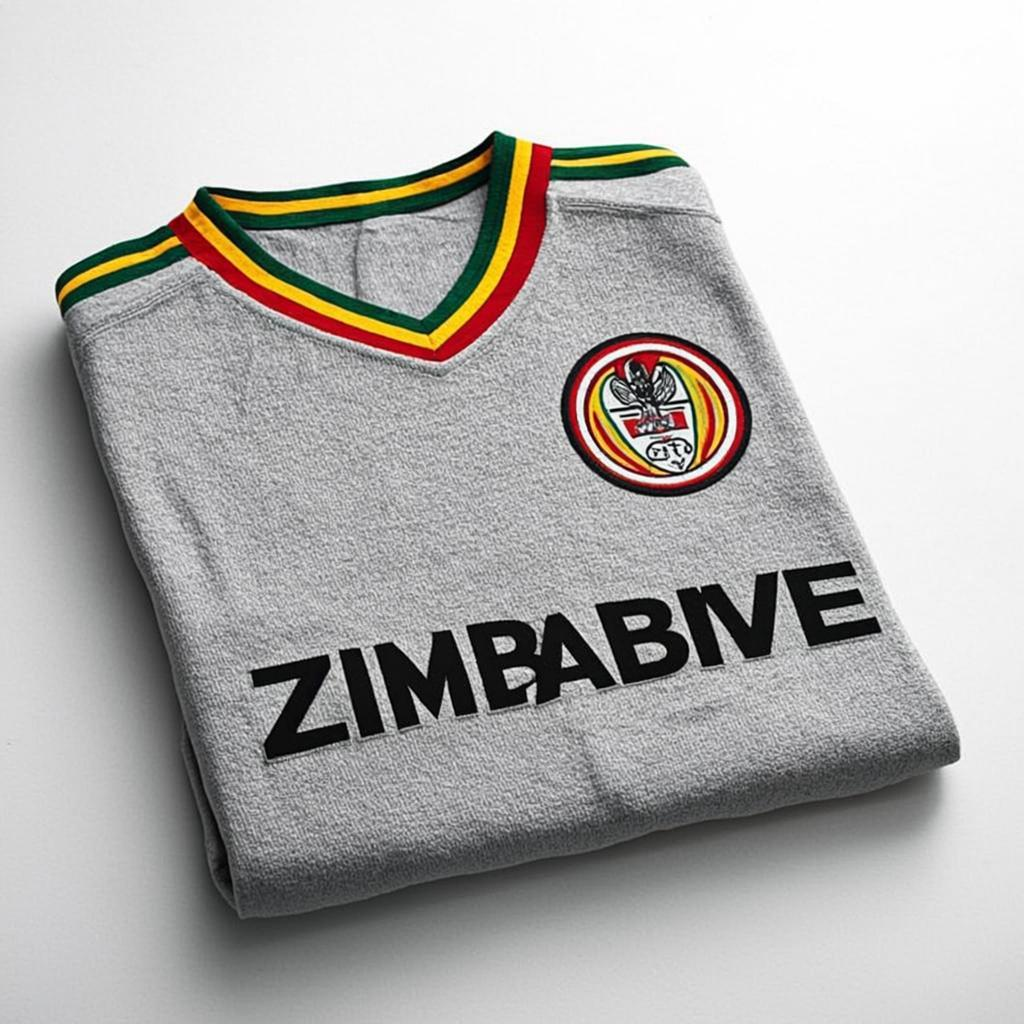
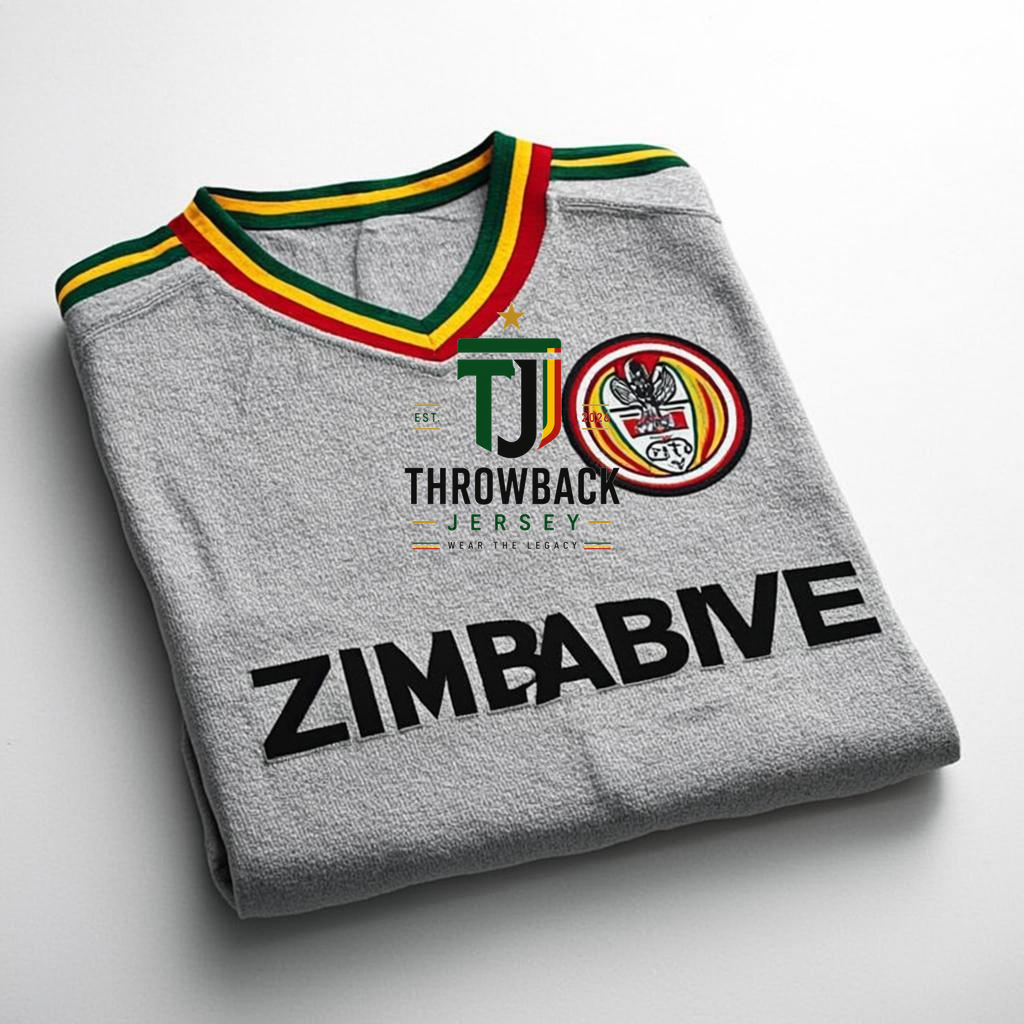
87c9e53d-9f62-4824-85be-16b8159bd8c8

Changed region(s): [[0.375, 0.2812, 0.625, 0.5312]]

diff --git a/src/components/store/header.tsx b/src/components/store/header.tsx
@@ -34,15 +34,19 @@ export default function Header({
         <div className="max-w-[1440px] mx-auto px-6 lg:px-10 flex items-center justify-between gap-6">
           {/* Logo + Tagline */}
           <a href="#top" className="flex items-center gap-3 group">
-            <span
-              className="font-script text-2xl md:text-[28px] leading-none text-[#D4AF37] drop-shadow-[0_2px_8px_rgba(212,175,55,0.4)] transition-transform group-hover:scale-[1.03] origin-left"
-              style={{ fontFamily: "var(--font-pacifico), Pacifico, cursive" }}
-            >
-              Throwback Jersey
-            </span>
-            <span className="hidden md:block h-4 w-px bg-[#D4AF37]/60" />
-            <span className="hidden md:block text-[10px] tracking-[0.3em] text-white/80 font-ui uppercase">
-              Wear the Legacy
+            <img
+              src="/images/logo-transparent.png"
+              alt="Throwback Jersey logo"
+              className="h-12 md:h-14 w-auto object-contain drop-shadow-[0_2px_8px_rgba(0,0,0,0.4)] transition-transform group-hover:scale-[1.03] origin-left"
+            />
+            <span className="hidden md:block h-8 w-px bg-[#D4AF37]/60" />
+            <span className="hidden md:flex flex-col leading-tight">
+              <span className="text-[10px] tracking-[0.3em] text-white font-ui uppercase">
+                Wear the Legacy
+              </span>
+              <span className="text-[9px] tracking-[0.25em] text-[#D4AF37]/80 font-ui uppercase mt-0.5">
+                Est. 2026
+              </span>
             </span>
           </a>
 
@@ -106,12 +110,11 @@ export default function Header({
           />
           <div className="absolute top-0 right-0 bottom-0 w-[78%] max-w-sm bg-[#0D0D0D] border-l border-[#D4AF37]/30 p-7 flex flex-col">
             <div className="flex items-center justify-between mb-10">
-              <span
-                className="font-script text-[#D4AF37] text-2xl"
-                style={{ fontFamily: "var(--font-pacifico), Pacifico, cursive" }}
-              >
-                Throwback Jersey
-              </span>
+              <img
+                src="/images/logo-transparent.png"
+                alt="Throwback Jersey logo"
+                className="h-16 w-auto object-contain"
+              />
               <button
                 aria-label="Close menu"
                 onClick={() => setMobileOpen(false)}

diff --git a/src/app/layout.tsx b/src/app/layout.tsx
@@ -32,18 +32,20 @@ const openSans = Open_Sans({
 export const metadata: Metadata = {
   title: "Throwback Jersey — Wear The Legacy",
   description:
-    "Throwback Jersey brings Zimbabwe's unforgettable football moments back to life — so you can wear the legacy. Heritage jerseys rooted in passion, unity and pride.",
+    "Throwback Jersey brings Zimbabwe's unforgettable sporting moments back to life — so you can wear the legacy. Heritage jerseys rooted in passion, unity and pride.",
   keywords: [
     "Throwback Jersey",
     "Zimbabwe",
-    "football",
+    "sport",
     "retro jersey",
     "heritage",
     "Wear the Legacy",
   ],
   authors: [{ name: "Throwback Jersey" }],
   icons: {
-    icon: "/logo.svg",
+    icon: "/images/logo-transparent.png",
+    shortcut: "/images/logo-transparent.png",
+    apple: "/images/logo-transparent.png",
   },
   openGraph: {
     title: "Throwback Jersey — Wear The Legacy",
@@ -51,6 +53,7 @@ export const metadata: Metadata = {
       "More than a jersey. It's our story. Zimbabwe's sporting heritage, reborn.",
     siteName: "Throwback Jersey",
     type: "website",
+    images: ["/images/logo-transparent.png"],
   },
 };
 

diff --git a/src/components/store/footer.tsx b/src/components/store/footer.tsx
@@ -37,14 +37,13 @@ export default function Footer() {
         <div className="grid grid-cols-2 md:grid-cols-4 lg:grid-cols-6 gap-10">
           {/* Brand column */}
           <div className="col-span-2 lg:col-span-2">
-            <span
-              className="font-script text-[#D4AF37] text-3xl"
-              style={{ fontFamily: "var(--font-pacifico), Pacifico, cursive" }}
-            >
-              Throwback Jersey
-            </span>
-            <p className="mt-5 text-white/55 text-sm leading-[1.7] font-body max-w-xs">
-              Heritage jerseys stitched from Zimbabwe&apos;s proudest football
+            <img
+              src="/images/logo-transparent.png"
+              alt="Throwback Jersey logo"
+              className="h-20 w-auto object-contain mb-5"
+            />
+            <p className="mt-1 text-white/55 text-sm leading-[1.7] font-body max-w-xs">
+              Heritage jerseys stitched from Zimbabwe&apos;s proudest sporting
               moments. Wear the legacy — pass it on.
             </p>
 

diff --git a/src/components/store/hero.tsx b/src/components/store/hero.tsx
@@ -48,6 +48,15 @@ export default function Hero() {
       {/* Main content */}
       <div className="relative z-10 min-h-[100svh] flex items-center px-6 lg:px-10 max-w-[1440px] mx-auto pt-28 pb-16">
         <div className="max-w-[640px] animate-fade-in-up">
+          {/* Brand logo badge */}
+          <div className="mb-6">
+            <img
+              src="/images/logo-transparent.png"
+              alt="Throwback Jersey logo"
+              className="h-16 md:h-20 w-auto object-contain drop-shadow-[0_4px_16px_rgba(0,0,0,0.6)]"
+            />
+          </div>
+
           <div className="flex items-center gap-3 mb-5">
             <span className="h-px w-8 bg-[#D4AF37]" />
             <span className="text-[11px] tracking-[0.3em] text-white/85 font-ui uppercase">

diff --git a/src/components/store/cart-drawer.tsx b/src/components/store/cart-drawer.tsx
@@ -73,9 +73,10 @@ export default function CartDrawer({
           <div className="flex-1 overflow-y-auto no-scrollbar">
             {items.length === 0 ? (
               <div className="h-full flex flex-col items-center justify-center text-center p-8 gap-4">
-                <Icons.ShoppingBag
-                  className="w-12 h-12 text-white/15"
-                  strokeWidth={1}
+                <img
+                  src="/images/logo-transparent.png"
+                  alt="Throwback Jersey logo"
+                  className="h-20 w-auto object-contain opacity-40"
                 />
                 <p className="text-white/60 text-sm font-body max-w-[220px]">
                   Your bag is empty. Time to find your story.

diff --git a/scripts/apply_logo.py b/scripts/apply_logo.py
@@ -1,0 +1,164 @@
+#!/usr/bin/env python3
+"""
+Apply the Throwback Jersey logo to:
+1. Create a transparent version of the logo (remove white background)
+2. Overlay the transparent logo on each product jersey image (on chest area)
+3. Overlay the logo on the hero image and banner strip image
+"""
+import os
+from PIL import Image, ImageFilter, ImageEnhance
+
+SRC_LOGO = "/home/z/my-project/public/images/logo.jpg"
+IMG_DIR = "/home/z/my-project/public/images"
+TRANSPARENT_LOGO = "/home/z/my-project/public/images/logo-transparent.png"
+WHITE_LOGO_PNG = "/home/z/my-project/public/images/logo-white.png"  # white version for dark backgrounds
+
+# Jersey product images
+JERSEY_IMAGES = [
+    "product-jersey-grey.png",
+    "product-jersey-green.png",
+    "product-jersey-black.png",
+    "product-jersey-yellow.png",
+    "product-jersey-red.png",
+    "product-jersey-white.png",
+    "product-jersey-navy.png",
+    "product-jersey-maroon.png",
+    "product-jersey-folded.png",
+    "banner-jersey.png",
+]
+
+# Hero + banner images that should also get the logo overlay
+HERO_BANNER_IMAGES = ["hero-fan.png"]
+
+
+def make_transparent_logo(src_path: str, out_path: str) -> Image.Image:
+    """Convert white background to transparent."""
+    img = Image.open(src_path).convert("RGBA")
+    datas = img.getdata()
+    new_data = []
+    for item in datas:
+        r, g, b, a = item
+        # treat near-white pixels as transparent (with soft threshold)
+        if r > 235 and g > 235 and b > 235:
+            # full transparency for pure white
+            new_data.append((255, 255, 255, 0))
+        elif r > 215 and g > 215 and b > 215:
+            # partial transparency for off-white edges
+            alpha = int(255 * (1 - (min(r, g, b) - 215) / (235 - 215 + 1)))
+            new_data.append((r, g, b, max(0, alpha)))
+        else:
+            new_data.append((r, g, b, 255))
+    img.putdata(new_data)
+    # smooth edges slightly
+    img = img.filter(ImageFilter.SMOOTH_MORE)
+    img.save(out_path, "PNG")
+    print(f"Transparent logo saved -> {out_path} ({img.size})")
+    return img
+
+
+def make_white_version(src_path: str, out_path: str) -> Image.Image:
+    """Create an all-white version of the logo for dark backgrounds (like footer/header)."""
+    img = Image.open(src_path).convert("RGBA")
+    datas = img.getdata()
+    new_data = []
+    for item in datas:
+        r, g, b, a = item
+        # treat white background as transparent
+        if r > 235 and g > 235 and b > 235:
+            new_data.append((255, 255, 255, 0))
+        else:
+            # keep alpha, but make everything white
+            # preserve detail by darkening alpha for darker original pixels
+            luminance = 0.299 * r + 0.587 * g + 0.114 * b
+            new_alpha = int(255 * (1 - luminance / 255))
+            new_alpha = max(60, min(255, new_alpha + 100))
+            new_data.append((255, 255, 255, new_alpha))
+    img.putdata(new_data)
+    img.save(out_path, "PNG")
+    print(f"White version saved -> {out_path} ({img.size})")
+    return img
+
+
+def overlay_logo_on_jersey(
+    base_path: str, logo: Image.Image, out_path: str, scale: float = 0.28, y_offset: float = 0.36
+) -> None:
+    """Overlay the logo on the chest area of a jersey image.
+
+    scale: width of logo as a fraction of the base image width
+    y_offset: vertical position (0 = top, 0.5 = middle, 1 = bottom) for the logo center
+    """
+    base = Image.open(base_path).convert("RGBA")
+    w, h = base.size
+
+    # Resize logo
+    logo_w = int(w * scale)
+    logo_ratio = logo.height / logo.width
+    logo_h = int(logo_w * logo_ratio)
+    resized_logo = logo.resize((logo_w, logo_h), Image.LANCZOS)
+
+    # Calculate position to center logo on chest
+    pos_x = (w - logo_w) // 2
+    pos_y = int(h * y_offset) - (logo_h // 2)
+
+    # Compose
+    base.alpha_composite(resized_logo, (pos_x, pos_y))
+    # Convert back to RGB to keep PNG file size reasonable and preserve original format
+    final = base.convert("RGB")
+    final.save(out_path, "PNG", optimize=True)
+    print(f"Logo applied -> {out_path}")
+
+
+def overlay_logo_on_hero(
+    base_path: str, logo: Image.Image, out_path: str, scale: float = 0.14
+) -> None:
+    """Overlay the logo on the hero image (small, top-left or centered)."""
+    base = Image.open(base_path).convert("RGBA")
+    w, h = base.size
+
+    logo_w = int(w * scale)
+    logo_ratio = logo.height / logo.width
+    logo_h = int(logo_w * logo_ratio)
+    resized_logo = logo.resize((logo_w, logo_h), Image.LANCZOS)
+
+    # Position: top-right corner with some padding
+    pos_x = w - logo_w - int(w * 0.04)
+    pos_y = int(h * 0.08)
+
+    base.alpha_composite(resized_logo, (pos_x, pos_y))
+    final = base.convert("RGB")
+    final.save(out_path, "PNG", optimize=True)
+    print(f"Logo applied to hero -> {out_path}")
+
+
+# Patch ImageFilter import (used above as Filter.NONE placeholder)
+from PIL import ImageFilter  # noqa: E402
+
+
+def main() -> None:
+    # 1. Make transparent logo
+    transparent = make_transparent_logo(SRC_LOGO, TRANSPARENT_LOGO)
+
+    # 2. Make all-white version for dark backgrounds
+    white_logo = make_white_version(SRC_LOGO, WHITE_LOGO_PNG)
+
+    # 3. Overlay transparent logo on each jersey
+    for j in JERSEY_IMAGES:
+        p = os.path.join(IMG_DIR, j)
+        if not os.path.exists(p):
+            print(f"Skip (missing): {p}")
+            continue
+        overlay_logo_on_jersey(p, transparent, p, scale=0.30, y_offset=0.42)
+
+    # 4. Overlay logo on hero (small, corner placement)
+    for h_img in HERO_BANNER_IMAGES:
+        p = os.path.join(IMG_DIR, h_img)
+        if not os.path.exists(p):
+            print(f"Skip (missing): {p}")
+            continue
+        overlay_logo_on_hero(p, white_logo, p, scale=0.10)
+
+    print("\nAll done!")
+
+
+if __name__ == "__main__":
+    main()
